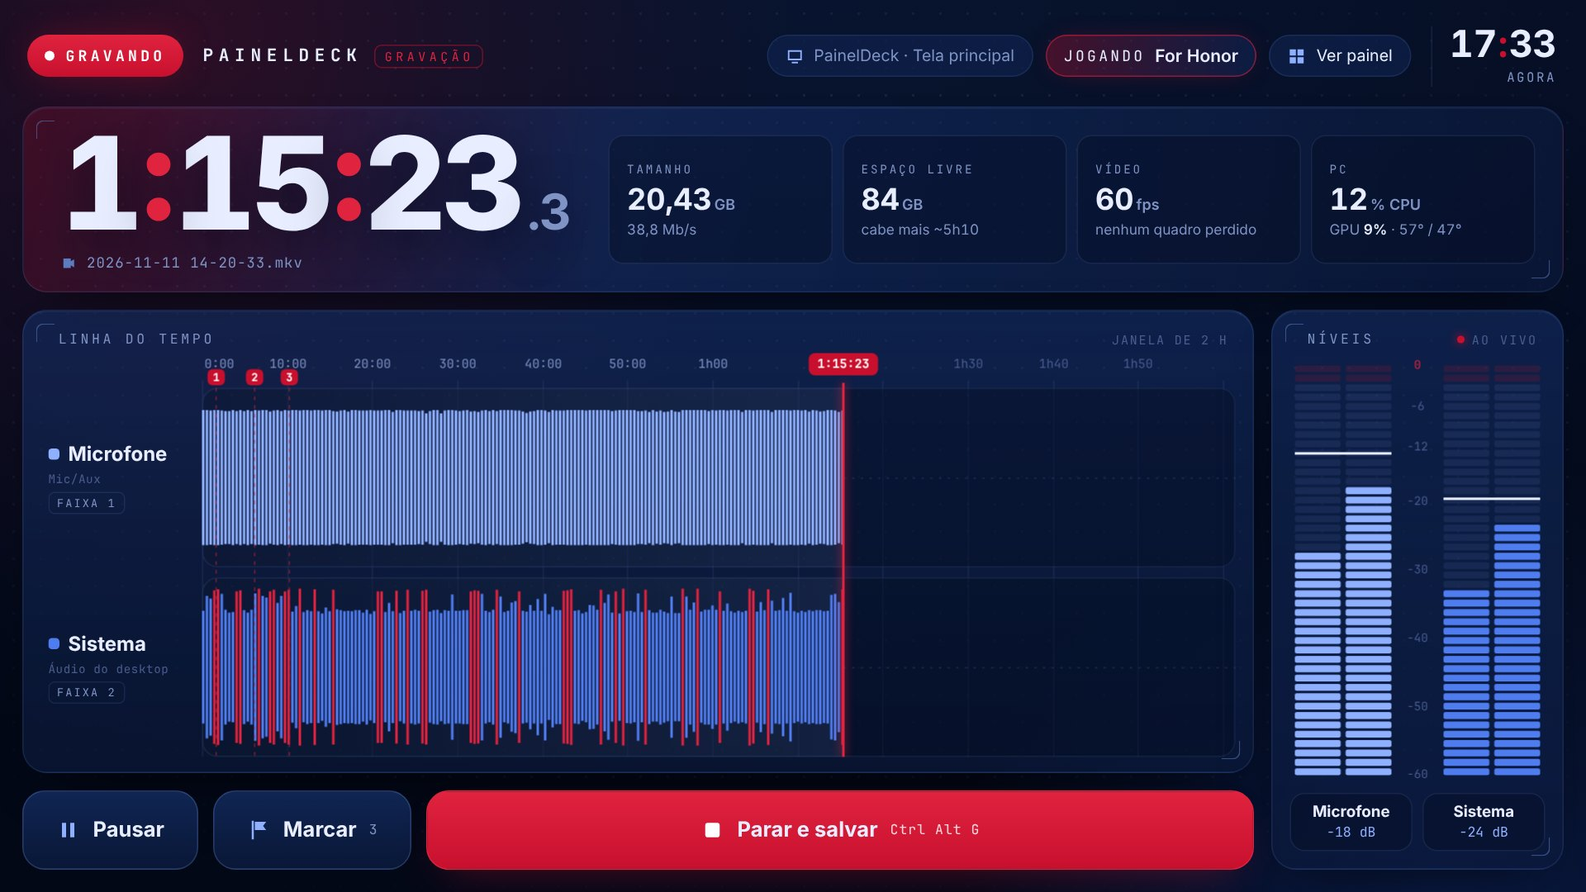
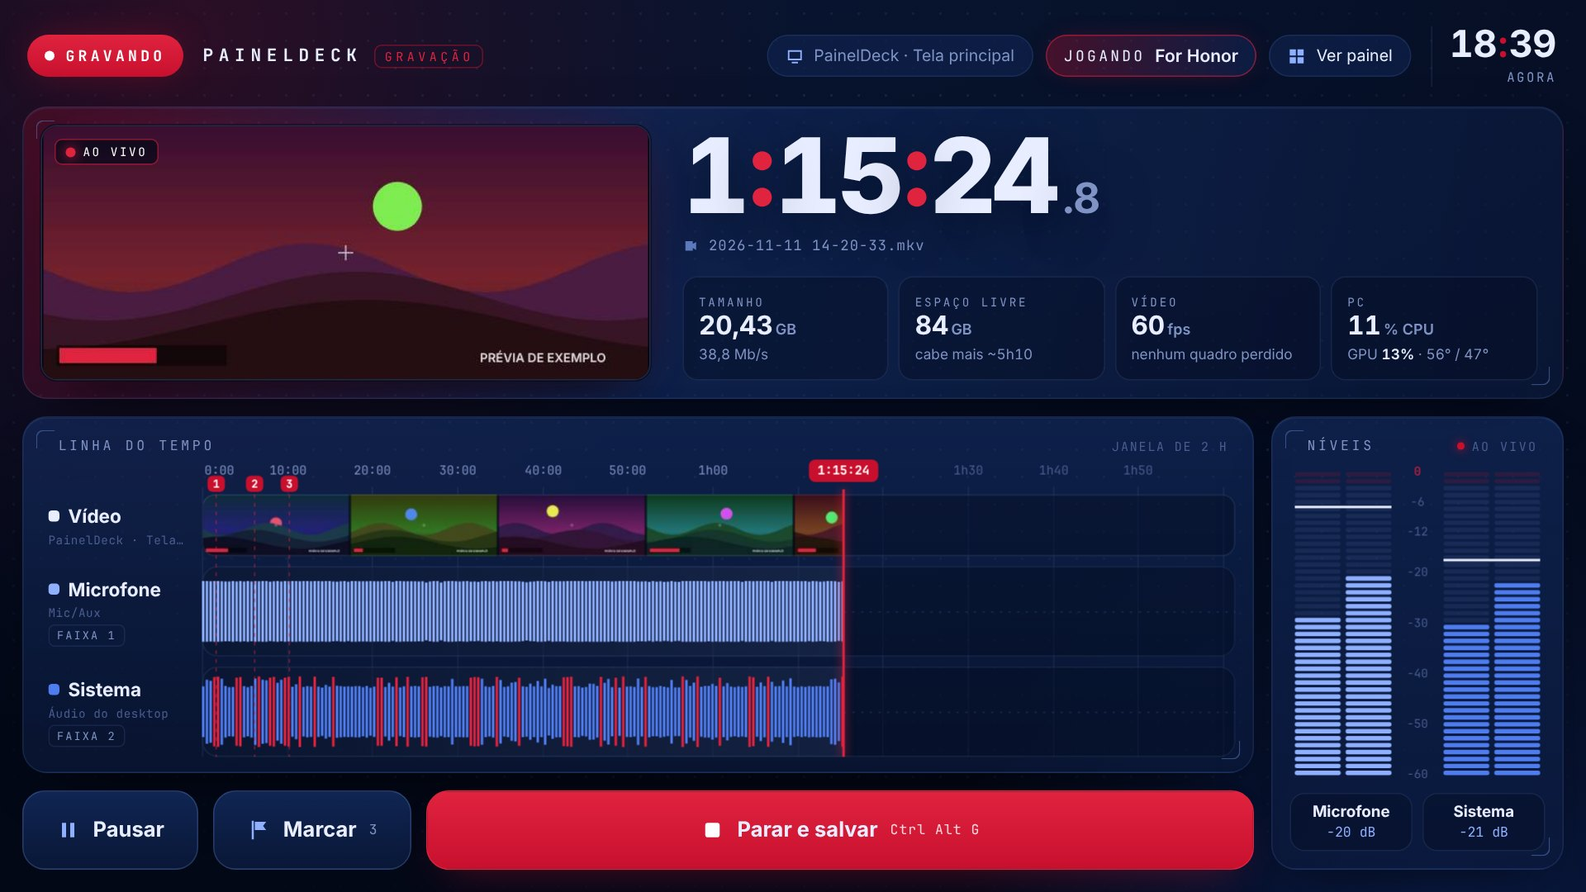
Gravação: prévia ao vivo do vídeo e miniaturas na linha do tempo
- Recorder.cs: comando "frame" (GetSourceScreenshot da cena do OBS, JPEG pequeno)
- rec.js: prévia na tela de gravação ("gravacao": { "previa": 5 } quadros/s, 0 desliga) e faixa
  de vídeo na linha do tempo com miniaturas reveladas junto com a agulha

Claude-Session: https://claude.ai/code/session_015qPzKhft6dwfZjuwQifmzG

diff --git a/wwwroot/scenes/navy/rec.js b/wwwroot/scenes/navy/rec.js
@@ -7,10 +7,11 @@
 //       last: { name, path, ms, bytes, markers, at }, recent: [{ name, path, bytes, at }] }
 //   - Bridge.on("meters") (~15x por segundo, só gravando ou no teste de áudio): { ms, paused, l: [pico, média, pico, média] } em dB
 //   - Bridge.call("record", { cmd }) → toggle | start | stop | pause | mark | mute (track) | test | open (path) | history
+//       | frame (width) → { image (data URL JPEG da cena do OBS), error }: a prévia do vídeo, pedida aqui algumas vezes por segundo
 //  Aqui: o cartão GRAVAÇÃO da coluna da direita e a tela cheia que entra sozinha enquanto grava
-//  (linha do tempo que cresce com as ondas das duas faixas + medidores ao vivo).
+//  (prévia ao vivo do vídeo, linha do tempo que cresce com miniaturas do vídeo e as ondas das duas faixas, medidores ao vivo).
 //  Leve na GPU: os canvas só são redesenhados quando chega um "meters" (nada roda com o painel parado).
-//  Config: "gravacao" no deck.json → { "cena", "faixas": [{ "nome", "fonte" }], "obs", "voltar" }.
+//  Config: "gravacao" no deck.json → { "cena", "faixas": [{ "nome", "fonte" }], "obs", "voltar", "previa" (quadros/s, 0 = sem vídeo) }.
 // =====================================================================
 (() => {
   const $ = (s, el = document) => el.querySelector(s);
@@ -55,6 +56,7 @@
   let win = 60;              // segundos que cabem na linha do tempo agora (cresce junto com a gravação)
   let wasActive = false, showing = false, minimized = false, doneUntil = 0, histFor = false;
   let failSeq = null, quiet = 0, stopAsk = 0, trackKey = "", bytesAt = null, rate = 0;
+  let thumbs = [], thumbEvery = 2000, ratio = 2.389; // miniaturas do vídeo pra linha do tempo: { ms, cv }
 
   const cfg = () => window.Navy.deck?.gravacao || {};
   const toByte = (db) => Math.round(Math.max(0, Math.min(1, (db - FLOOR) / -FLOOR)) * 255);
@@ -133,7 +135,7 @@
 
   // ---------- tela cheia ----------
   function renderHeads(r) {
-    $("#r-heads").innerHTML = r.tracks.map((t, i) => `
+    $("#r-heads").innerHTML = `<div class="r-head video" style="--c:#e8eeff"><span class="n"><i></i>Vídeo</span><span class="src" id="r-video-src">${esc(r.scene || "cena do OBS")}</span></div>` + r.tracks.map((t, i) => `
       <button class="r-head${t.muted ? " muted" : ""}" data-i="${i}" style="--c:${COLORS[i % COLORS.length]}" title="Toque pra mutar/desmutar no OBS">
         <span class="n"><i></i>${esc(t.name)}</span>
         <span class="src">${esc(t.found ? t.source : "sem fonte")}</span>
@@ -158,6 +160,9 @@
     stageEl.classList.toggle("done", done);
     setText($("#r-state"), done ? "SALVO" : r.starting && !r.active ? (r.obs === "ok" ? "COMEÇANDO" : "ABRINDO O OBS") : r.paused ? "PAUSADO" : "GRAVANDO");
     setText($("#r-scene-name"), r.scene || "—");
+    const vs = $("#r-video-src");
+    if (vs) setText(vs, r.scene || "cena do OBS");
+    setText($("#r-prev-tag"), done ? "ÚLTIMO QUADRO" : r.paused ? "PAUSADO" : "AO VIVO");
     $("#r-game").hidden = !s.game;
     if (s.game) setText($("#r-game-name"), s.game.name);
     const now = new Date();
@@ -228,6 +233,21 @@
         for (let i = 0; i < bin.length; i++) a[i] = Math.max(a[i] || 0, bin.charCodeAt(i));
       });
       draw();
+      if (Bridge.preview) { // só no preview do navegador: inventa as miniaturas do que "já foi gravado"
+        const step = Math.max(2000, h.ms / 150);
+        for (let t = 0; t < h.ms - step; t += step) {
+          const im = new Image();
+          im.src = (await Bridge.call("record", { cmd: "frame", at: t, width: 176 })).image;
+          await im.decode();
+          const cv = document.createElement("canvas");
+          cv.width = 176; cv.height = Math.round(176 / ratio);
+          cv.getContext("2d").drawImage(im, 0, 0, cv.width, cv.height);
+          thumbs.push({ ms: t, cv });
+        }
+        thumbs.sort((a, b) => a.ms - b.ms);
+        thumbEvery = step;
+        draw();
+      }
     } catch { /* app antigo: a linha do tempo começa de agora */ }
   }
 
@@ -237,6 +257,7 @@
     const on = !!r.active;
     if (on && !wasActive) { // começou (ou o painel abriu com a gravação rolando)
       hist = r.tracks.map(() => []);
+      thumbs = []; thumbEvery = 2000;
       win = 60; rate = 0; bytesAt = null; stopAsk = 0; doneUntil = 0;
       curMs = r.ms; curAt = performance.now();
       loadHistory();
@@ -268,6 +289,40 @@
     if (full) { renderScene(r, s); if (!on || r.paused) draw(); }
   }
   const sync = () => { if (rec) apply(rec); };
+
+  // ---------- prévia do vídeo ----------
+  // Pede um quadro pro OBS, espera chegar e só então marca o próximo (nunca acumula pedidos).
+  // "gravacao": { "previa": 5 } = quadros por segundo (0 desliga; máx. 15). Só roda com a tela de gravação aberta.
+  const prevEl = $("#r-prev"), prevImg = $("#r-prev-img");
+  const prevFps = () => { const v = Number(cfg().previa ?? 5); return isNaN(v) ? 5 : Math.max(0, Math.min(15, v)); };
+  function addThumb(ms) {
+    const last = thumbs[thumbs.length - 1];
+    if (last && ms - last.ms < thumbEvery) return;
+    const cv = document.createElement("canvas");
+    cv.width = 176; cv.height = Math.round(176 / ratio);
+    cv.getContext("2d").drawImage(prevImg, 0, 0, cv.width, cv.height);
+    thumbs.push({ ms, cv });
+    if (thumbs.length > 320) { thumbs = thumbs.filter((_, i) => i % 2 === 0); thumbEvery *= 2; } // gravação longa: guarda uma a cada tanto
+  }
+  prevImg.addEventListener("load", () => {
+    if (!prevImg.naturalWidth) return;
+    ratio = Math.max(1.2, Math.min(3.6, prevImg.naturalWidth / prevImg.naturalHeight));
+    prevEl.style.setProperty("--ar", ratio.toFixed(3));
+    prevEl.classList.add("has");
+    if (rec?.active && !rec.paused && prevImg.dataset.ms) addThumb(Number(prevImg.dataset.ms));
+  });
+  async function pollFrame() {
+    const fps = prevFps(), t0 = performance.now();
+    const on = fps > 0 && rec?.active && rec.obs === "ok" && body.classList.contains("recording") && !document.hidden;
+    if (!on) { if (fps <= 0) prevEl.classList.remove("has"), setText($("#r-prev-none"), "prévia desligada (\"previa\": 0)"); setTimeout(pollFrame, 700); return; }
+    try {
+      const r = await Bridge.call("record", { cmd: "frame", width: 640 });
+      if (r?.image) { prevImg.dataset.ms = String(Math.round(curMs)); prevImg.src = r.image; }
+      else if (!prevEl.classList.contains("has")) setText($("#r-prev-none"), r?.error ? `sem imagem: ${r.error}` : "esperando a imagem do OBS…");
+    } catch { /* tenta de novo */ }
+    setTimeout(pollFrame, Math.max(40, 1000 / fps - (performance.now() - t0)));
+  }
+  pollFrame();
 
   // ---------- níveis ao vivo ----------
   Bridge.on("meters", (m) => {
@@ -346,9 +401,9 @@
     if (Math.abs(target - win) < target * 0.005) win = target; else win += (target - win) * 0.22;
     setText($("#r-scale"), `janela de ${target >= 3600 ? `${target / 3600} h` : `${target / 60} min`}`);
 
-    const RUL = 28, GAP = 8, PADR = 10, tw = w - PADR;
+    const RUL = 28, GAP = 8, PADR = 10, VH = 50, tw = w - PADR; // VH = altura da faixa do vídeo (igual ao .r-head.video)
     const X = (t) => (t / win) * tw;
-    const laneH = (h - RUL - GAP * (n - 1)) / n;
+    const laneH = (h - RUL - VH - GAP * n) / n;
     const xNow = Math.min(tw, X(sec));
 
     // régua
@@ -363,10 +418,27 @@
       if (x < tw - 18 && Math.abs(x - xNow) > 46) ctx.fillText(tickLabel(t), t === 0 ? 2 : x, 9);
     }
 
-    // faixas
+    // vídeo: tira de miniaturas que vai sendo revelada junto com a agulha
+    ctx.fillStyle = "rgba(5,13,34,.45)"; rr(ctx, 0, RUL, w, VH, 10); ctx.fill();
+    ctx.save();
+    rr(ctx, 0, RUL, w, VH, 10); ctx.clip();
+    ctx.beginPath(); ctx.rect(0, RUL, xNow, VH); ctx.clip();
+    ctx.fillStyle = "rgba(143,176,255,.08)"; ctx.fillRect(0, RUL, xNow, VH);
+    const cell = VH * ratio, half = thumbEvery / 2;
+    for (let i = 0, k = 0; i * cell < xNow; i++) {
+      const t = ((i * cell) / tw) * win * 1000; // instante do começo desse quadrinho
+      while (k < thumbs.length - 1 && thumbs[k].ms < t - half) k++;
+      const th = thumbs[k];
+      if (th && Math.abs(th.ms - t) <= Math.max(thumbEvery * 1.5, (cell / tw) * win * 1000)) ctx.drawImage(th.cv, i * cell, RUL, cell, VH);
+      ctx.fillStyle = "rgba(3,8,23,.7)"; ctx.fillRect(i * cell - 1, RUL, 2, VH);
+    }
+    ctx.restore();
+    ctx.strokeStyle = "rgba(143,176,255,.16)"; ctx.lineWidth = 1; rr(ctx, 0.5, RUL + 0.5, w - 1, VH - 1, 10); ctx.stroke();
+
+    // faixas de áudio
     const PITCH = 3, BARW = 2;
     for (let tr = 0; tr < n; tr++) {
-      const y0 = RUL + tr * (laneH + GAP), cy = y0 + laneH / 2, amp = laneH / 2 - 7;
+      const y0 = RUL + VH + GAP + tr * (laneH + GAP), cy = y0 + laneH / 2, amp = laneH / 2 - 7;
       const color = COLORS[tr % COLORS.length], muted = rec.tracks[tr]?.muted;
       ctx.fillStyle = "rgba(5,13,34,.45)"; rr(ctx, 0, y0, w, laneH, 12); ctx.fill();
       ctx.strokeStyle = "rgba(143,176,255,.12)"; ctx.lineWidth = 1; rr(ctx, 0.5, y0 + 0.5, w - 1, laneH - 1, 12); ctx.stroke();

diff --git a/wwwroot/scenes/navy/navy.css b/wwwroot/scenes/navy/navy.css
@@ -424,7 +424,7 @@ body.col-news .reccard { display: none; }
   transform: translate(-50%, -50%) scale(var(--fit, 1));
   padding: 18px; display: none; gap: 14px;
   grid-template-columns: 1fr 236px;
-  grid-template-rows: 54px 150px 1fr 64px;
+  grid-template-rows: 54px 236px 1fr 64px;
   grid-template-areas: "top top" "hero hero" "tl vu" "ctl vu";
 }
 body.recording #stage { display: none; }
@@ -440,28 +440,43 @@ body.recording #sky .g1 { background: radial-gradient(closest-side, #4a0d23, rgb
 #recstage.paused .r-badge .rec, #recstage.done .r-badge .rec, #recstage.starting .r-badge .rec { background: var(--ice); opacity: 1 !important; }
 .r-top .chip span { max-width: 240px; overflow: hidden; text-overflow: ellipsis; white-space: nowrap; }
 
-.r-hero { grid-area: hero; display: flex; align-items: center; gap: 22px; padding: 0 22px 0 30px;
+.r-hero { grid-area: hero; display: flex; align-items: stretch; gap: 22px; padding: 14px 20px 14px 14px;
   background: linear-gradient(100deg, rgba(200, 16, 46, 0.2), rgba(20, 45, 99, 0.62) 38%, rgba(11, 26, 61, 0.66)); }
-.r-clock { flex-shrink: 0; min-width: 420px; }
-.r-time { display: flex; align-items: baseline; font-size: 104px; font-weight: 800; line-height: 0.9; letter-spacing: -0.04em; font-variant-numeric: tabular-nums; text-shadow: 0 10px 40px rgba(3, 8, 23, 0.6); }
-.r-time i { font-style: normal; color: var(--red-hot); margin: 0 2px; position: relative; top: -8px; }
-.r-time small { font-size: 40px; font-weight: 700; color: var(--muted); letter-spacing: -0.02em; margin-left: 6px; }
+/* prévia do vídeo: a largura acompanha o formato da imagem (ultrawide ou 16:9) */
+.r-prev { position: relative; flex: 0 0 auto; height: 100%; aspect-ratio: var(--ar, 2.389); max-width: 560px; min-width: 300px; border-radius: 13px; overflow: hidden;
+  background: #02050f; border: 1px solid var(--line-strong); box-shadow: 0 0 0 1px rgba(3, 8, 23, 0.6), 0 18px 40px -22px #000, 0 0 40px -18px var(--red-glow); }
+.r-prev img { position: absolute; inset: 0; width: 100%; height: 100%; object-fit: contain; display: none; }
+.r-prev.has img { display: block; }
+.r-prev-none { position: absolute; inset: 0; display: grid; place-items: center; padding: 0 20px; text-align: center; font-size: 13px; line-height: 1.45; color: var(--muted);
+  background: repeating-linear-gradient(135deg, rgba(143, 176, 255, 0.04) 0 10px, transparent 10px 20px); }
+.r-prev.has .r-prev-none { display: none; }
+.r-prev-tag { position: absolute; left: 10px; top: 10px; display: flex; align-items: center; gap: 6px; padding: 3px 8px; border-radius: 6px;
+  font-family: var(--mono); font-size: 9.5px; letter-spacing: 0.18em; color: #fff; background: rgba(3, 8, 23, 0.72); border: 1px solid rgba(224, 35, 63, 0.6); }
+#recstage.paused .r-prev-tag, #recstage.done .r-prev-tag { border-color: var(--line-strong); color: var(--ice); }
+#recstage.paused .r-prev-tag .rec, #recstage.done .r-prev-tag .rec { background: var(--ice); box-shadow: none; opacity: 1 !important; }
+#recstage.done .r-prev img { opacity: 0.55; }
+.r-side { flex: 1; min-width: 0; display: flex; flex-direction: column; justify-content: space-between; padding: 4px 0 0 4px; }
+.r-clock { flex-shrink: 0; }
+.r-time { display: flex; align-items: baseline; font-size: 84px; font-weight: 800; line-height: 0.9; letter-spacing: -0.04em; font-variant-numeric: tabular-nums; text-shadow: 0 10px 40px rgba(3, 8, 23, 0.6); }
+.r-time i { font-style: normal; color: var(--red-hot); margin: 0 2px; position: relative; top: -6px; }
+.r-time small { font-size: 34px; font-weight: 700; color: var(--muted); letter-spacing: -0.02em; margin-left: 6px; }
 #recstage.paused .r-time, #recstage.starting .r-time { color: var(--ice-dim); }
 .r-file { display: flex; align-items: center; gap: 8px; margin-top: 10px; font-family: var(--mono); font-size: 11.5px; letter-spacing: 0.06em; color: var(--muted); white-space: nowrap; overflow: hidden; text-overflow: ellipsis; max-width: 440px; }
 .r-file svg { width: 13px; height: 13px; fill: var(--ice-dim); flex-shrink: 0; }
-.r-stats { flex: 1; min-width: 0; display: grid; grid-template-columns: repeat(4, 1fr); gap: 8px; height: 104px; }
-.r-stats .stat { padding: 10px 14px; gap: 4px; }
-.r-stats .stat .v { font-size: 24px; }
+.r-stats { flex: 0 0 auto; min-width: 0; display: grid; grid-template-columns: repeat(4, 1fr); gap: 8px; height: 84px; }
+.r-stats .stat { padding: 7px 12px; gap: 2px; }
+.r-stats .stat .v { font-size: 21px; }
 .r-stats .stat.bad .v { color: var(--red-hot); }
 
 .r-tl { grid-area: tl; display: flex; flex-direction: column; }
 .r-scale { font-family: var(--mono); font-size: 10px; letter-spacing: 0.12em; color: var(--faint); text-transform: uppercase; }
 .r-body { position: relative; flex: 1; min-height: 0; display: grid; grid-template-columns: 124px 1fr; margin: 4px 14px 12px 20px; }
 .r-heads { display: flex; flex-direction: column; padding-top: 28px; gap: 8px; }
-.r-head { position: relative; flex: 1; min-height: 0; display: flex; flex-direction: column; justify-content: center; gap: 4px; padding-right: 12px; text-align: left; border-radius: 12px; overflow: hidden; }
-.r-head .n { font-size: 16px; font-weight: 700; display: flex; align-items: center; gap: 7px; }
+.r-head { position: relative; flex: 1; min-height: 0; display: flex; flex-direction: column; justify-content: center; gap: 3px; padding-right: 12px; text-align: left; border-radius: 12px; overflow: hidden; }
+.r-head .n { font-size: 15px; font-weight: 700; display: flex; align-items: center; gap: 7px; }
 .r-head .n i { width: 9px; height: 9px; border-radius: 3px; background: var(--c); flex-shrink: 0; }
 .r-head .src { font-family: var(--mono); font-size: 9.5px; letter-spacing: 0.04em; color: var(--faint); white-space: nowrap; overflow: hidden; text-overflow: ellipsis; }
+.r-head.video { flex: 0 0 50px; gap: 3px; }
 .r-head .tag { align-self: flex-start; font-family: var(--mono); font-size: 9px; letter-spacing: 0.16em; color: var(--muted); border: 1px solid var(--line); border-radius: 5px; padding: 2px 6px; }
 .r-head.muted .tag { color: #fff; background: var(--red); border-color: var(--red-hot); }
 .r-body canvas, .r-vus canvas { width: 100%; height: 100%; display: block; }

diff --git a/wwwroot/bridge.js b/wwwroot/bridge.js
@@ -211,6 +211,24 @@ window.Bridge = (() => {
     }
     if (method === "record") {
       const R = window.__previewRec, cmd = args.cmd;
+      if (cmd === "frame") { // quadro inventado (um "jogo" que muda com o tempo), só pra ver a prévia e as miniaturas
+        const t = (args.at ?? R.ms()) / 1000, w = args.width || 640, h = Math.round(w / 2.389), k = w / 640;
+        const cv = document.createElement("canvas"); cv.width = w; cv.height = h;
+        const c = cv.getContext("2d"); c.scale(k, k);
+        const hue = (200 + t * 0.9) % 360, g = c.createLinearGradient(0, 0, 0, 268);
+        g.addColorStop(0, `hsl(${hue} 60% 14%)`); g.addColorStop(0.6, `hsl(${(hue + 40) % 360} 55% 30%)`); g.addColorStop(1, `hsl(${(hue + 70) % 360} 50% 12%)`);
+        c.fillStyle = g; c.fillRect(0, 0, 640, 268);
+        c.fillStyle = `hsl(${(hue + 150) % 360} 80% 62%)`; c.beginPath(); c.arc(320 + 240 * Math.sin(t / 37), 96 + 30 * Math.cos(t / 23), 26, 0, 7); c.fill();
+        for (let l = 0; l < 3; l++) {
+          c.fillStyle = `hsla(${(hue + 20 * l) % 360} 45% ${20 - l * 5}% / 1)`; c.beginPath(); c.moveTo(0, 268);
+          for (let x = 0; x <= 640; x += 16) c.lineTo(x, 150 + l * 30 + 26 * Math.sin(x / (60 + l * 25) + t * (0.05 + l * 0.04) + l * 2));
+          c.lineTo(640, 268); c.fill();
+        }
+        c.fillStyle = "rgba(0,0,0,.45)"; c.fillRect(14, 232, 180, 22); c.fillStyle = "#e0233f"; c.fillRect(17, 235, 174 * (0.55 + 0.4 * Math.sin(t / 9)), 16);
+        c.fillStyle = "rgba(255,255,255,.85)"; c.font = "600 13px Segoe UI, sans-serif"; c.fillText("PRÉVIA DE EXEMPLO", 462, 250);
+        c.strokeStyle = "rgba(255,255,255,.7)"; c.lineWidth = 1.5; c.beginPath(); c.moveTo(312, 134); c.lineTo(328, 134); c.moveTo(320, 126); c.lineTo(320, 142); c.stroke();
+        return { image: cv.toDataURL("image/jpeg", 0.7), error: null };
+      }
       if (cmd === "history") {
         const n = Math.floor(R.ms() / 250), enc = (tr) => { let b = ""; for (let i = 0; i < n; i++) b += String.fromCharCode(Math.round(Math.max(0, Math.min(1, (R.level(tr, i / 4) + 60) / 60)) * 255)); return btoa(b); };
         return { bucketMs: 250, ms: R.ms(), tracks: [enc(0), enc(1)], markers: R.markers };

diff --git a/wwwroot/scenes/navy/index.html b/wwwroot/scenes/navy/index.html
@@ -215,6 +215,13 @@
     </header>
 
     <section class="card r-hero" style="--i:1">
+      <!-- prévia ao vivo do que o OBS está gravando (Bridge.call("record", { cmd: "frame" }), algumas vezes por segundo) -->
+      <div class="r-prev" id="r-prev">
+        <img id="r-prev-img" alt="">
+        <div class="r-prev-none" id="r-prev-none">esperando a imagem do OBS…</div>
+        <span class="r-prev-tag"><i class="rec"></i><span id="r-prev-tag">AO VIVO</span></span>
+      </div>
+      <div class="r-side">
       <div class="r-clock">
         <div class="r-time"><span id="r-t-h">0</span><i>:</i><span id="r-t-m">00</span><i>:</i><span id="r-t-s">00</span><small id="r-t-d">.0</small></div>
         <div class="r-file"><svg viewBox="0 0 24 24"><path d="M4 5h11v4l5-3v12l-5-3v4H4Z"/></svg><span id="r-file">—</span></div>
@@ -224,6 +231,7 @@
         <div class="stat" id="r-st-free"><span class="k">ESPAÇO LIVRE</span><b class="v" id="r-free">--</b><span class="s" id="r-fits">&nbsp;</span></div>
         <div class="stat" id="r-st-video"><span class="k">VÍDEO</span><b class="v" id="r-fps">--</b><span class="s" id="r-drop">&nbsp;</span></div>
         <div class="stat" id="r-st-pc"><span class="k">PC</span><b class="v" id="r-pc">--</b><span class="s" id="r-pc-s">&nbsp;</span></div>
+      </div>
       </div>
     </section>
 

diff --git a/Recorder.cs b/Recorder.cs
@@ -66,9 +66,10 @@ internal sealed class Recorder : IDisposable
 
     // ---------- comandos ----------
 
-    /// <summary>cmd: toggle | start | stop | pause | mark | mute (track) | test | open (path) | history | status.</summary>
+    /// <summary>cmd: toggle | start | stop | pause | mark | mute (track) | test | open (path) | history | frame (width) | status.</summary>
     public async Task<object?> CommandAsync(string cmd, JsonNode? args = null)
     {
+        if (cmd == "frame") return await FrameAsync(args?["width"]?.GetValue<int>() ?? 640); // pedido várias vezes por segundo: erro não vira aviso
         try
         {
             switch (cmd)
@@ -108,6 +109,25 @@ internal sealed class Recorder : IDisposable
     public void Fire(string cmd) => _ = Task.Run(async () => { try { await CommandAsync(cmd); } catch { } });
 
     public bool IsRecording { get { lock (gate) return active; } }
+    /// <summary>Prévia do vídeo: um JPEG pequeno da cena que o OBS está gravando (data URL), pra tela de gravação.</summary>
+    private async Task<object> FrameAsync(int width)
+    {
+        try
+        {
+            if (!obs.IsConnected) return new { image = (string?)null, error = (string?)"OBS fechado" };
+            string? src;
+            lock (gate) src = scene;
+            src ??= (string?)(await obs.RequestAsync("GetCurrentProgramScene", null))?["currentProgramSceneName"];
+            var r = await obs.RequestAsync("GetSourceScreenshot", new JsonObject
+            {
+                ["sourceName"] = src, ["imageFormat"] = "jpg",
+                ["imageWidth"] = Math.Clamp(width, 160, 1280), ["imageCompressionQuality"] = 70,
+            });
+            return new { image = (string?)r?["imageData"], error = (string?)null };
+        }
+        catch (Exception ex) { return new { image = (string?)null, error = (string?)ex.Message }; }
+    }
+
     private bool IsActive { get { lock (gate) return active || starting; } }
 
     private async Task StartAsync()

diff --git a/README.md b/README.md
@@ -95,8 +95,9 @@ O atalho muda em `"hotkeys": { "rest": "ctrl+alt+h" }` no `settings.json`. Simul
 ## ⏺ Modo gravação (Navy)
 
 **Ctrl+Alt+G**, o botão **GRAVAR** da coluna da direita ou um botão com a ação `{ "type": "record" }` mandam o **OBS**
-gravar o monitor principal, e o painel inteiro vira a **tela de gravação**: tempo correndo, tamanho do arquivo, quanto
-ainda cabe no disco, quadros perdidos, uma **linha do tempo que vai crescendo** com as ondas das duas faixas de áudio
+gravar o monitor principal, e o painel inteiro vira a **tela de gravação**: a **prévia ao vivo** do que o OBS está gravando,
+tempo correndo, tamanho do arquivo, quanto ainda cabe no disco, quadros perdidos, uma **linha do tempo que vai crescendo**
+com miniaturas do vídeo e as ondas das duas faixas de áudio
 (microfone e som do sistema; o que estoura aparece em vermelho) e os **níveis ao vivo** de cada uma.
 Dá pra **pausar**, **marcar** um ponto (vira capítulo no arquivo quando o OBS grava em MP4/MOV híbrido), **mutar** uma
 faixa tocando nela e **parar** (dois toques, pra um esbarrão não acabar com a gravação). **Ver painel** volta pro painel
@@ -106,7 +107,8 @@ normal sem parar de gravar (fica um **REC 12:47** no topo). Se a gravação come
   `"obs": { "password": "..." }` no `settings.json`). Com o OBS fechado, o painel abre ele minimizado e começa a gravar.
 - `"gravacao"` no `deck.json`: `"cena": "auto"` cria no OBS a cena **PainelDeck · Tela principal** (captura do monitor
   principal, ajustada à tela do OBS) e grava ela; `""` grava a cena que estiver no OBS; ou o nome de uma cena sua.
-  `"faixas"` diz quais fontes de áudio aparecem (vazio = Mic/Aux e Áudio do desktop). As **duas faixas separadas no
+  `"faixas"` diz quais fontes de áudio aparecem (vazio = Mic/Aux e Áudio do desktop). `"previa"` são os quadros por
+  segundo da prévia do vídeo (padrão 5; `0` desliga). As **duas faixas separadas no
   arquivo** são configuradas no próprio OBS (Saída → Gravação → Faixas de áudio, e Editar → Propriedades avançadas de áudio).
 - O atalho muda em `"hotkeys": { "record": "ctrl+alt+g" }` no `settings.json` (`""` desliga).
 - O botão **testar** mostra os níveis por 20 s sem gravar. Arquivos: `Recorder.cs`, `wwwroot/scenes/navy/rec.js`.

diff --git a/CLAUDE.md b/CLAUDE.md
@@ -51,7 +51,7 @@ Quando um pedido chega pelo botão "✨ Pedir ao Claude", o painel está rodando
      `status.rec` = `{ obs ("closed" | "connecting" | "ok" | "error"), error, active, paused, starting, ms, bytes, file, path, scene, dir, freeGb,
      hotkey, tracks: [{ name, source, muted, found, mixer }], markers: [ms], stats: { fps, cpu, skipped, total, lagged }, last, recent }`
      (e `status.recording` = true/false pro `"state"` de um botão). `Bridge.call("record", { cmd })` com `toggle | start | stop | pause | mark |
-     mute (track) | test | open (path) | history`; a ação do deck é `{ "type": "record", "cmd": "toggle" }`. Os níveis de áudio chegam por
+     mute (track) | test | open (path) | history | frame (width → { image } = JPEG da cena do OBS, a prévia do vídeo)`; a ação do deck é `{ "type": "record", "cmd": "toggle" }`. Os níveis de áudio chegam por
      `Bridge.on("meters", m => ...)` (~15x/s, só gravando ou no teste): `{ ms, paused, l: [pico, média, pico, média] }` em dB.
      Quem fala com o OBS é o `Recorder.cs` (obs-websocket); config em `"gravacao"` no `deck.json`, atalho `"record"` em `hotkeys` do `settings.json`.
      Os canvas da tela de gravação só redesenham quando chega um `meters` (mantém a regra de leve na GPU com o painel parado).
